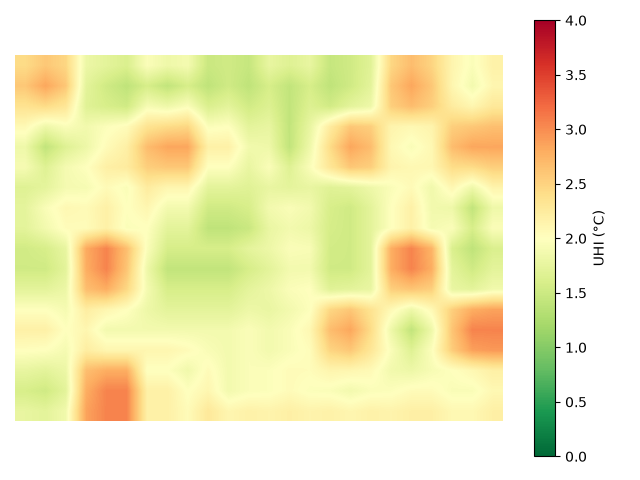
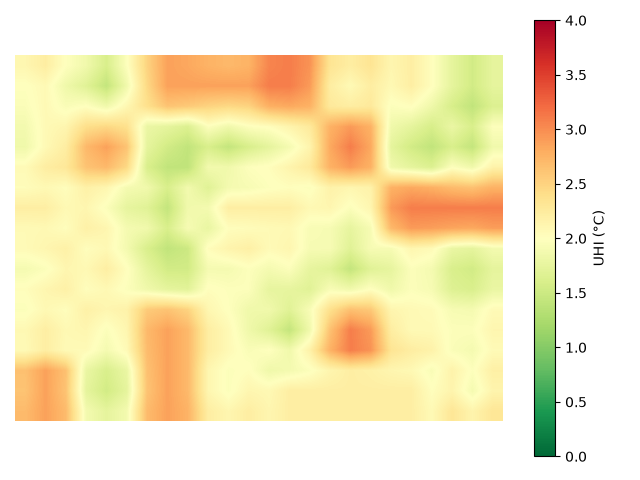
Added converter for Niels' version of array

diff --git a/PythonProject2/City.py b/PythonProject2/City.py
@@ -30,6 +30,15 @@ class City:
 
             print(self.population, self.soil_sealing, self.wind)
 
+    def convert_Niels_array(self, arr):
+        # Increase array size
+        arr = np.repeat(arr, int(math.sqrt(subtile_amount)), axis=0)
+        arr = np.repeat(arr, int(math.sqrt(subtile_amount)), axis=1)
+
+        arr = arr[2:-2, 2:-2] # Shave off the extra borders
+
+        return arr
+
     # One time working function for importing actual data to JSON file
     def save_to_json(self, csv_path):
         cities = ["DenHaag", "Middelburg", "Eindhoven", "Groningen", "Veluwe"]